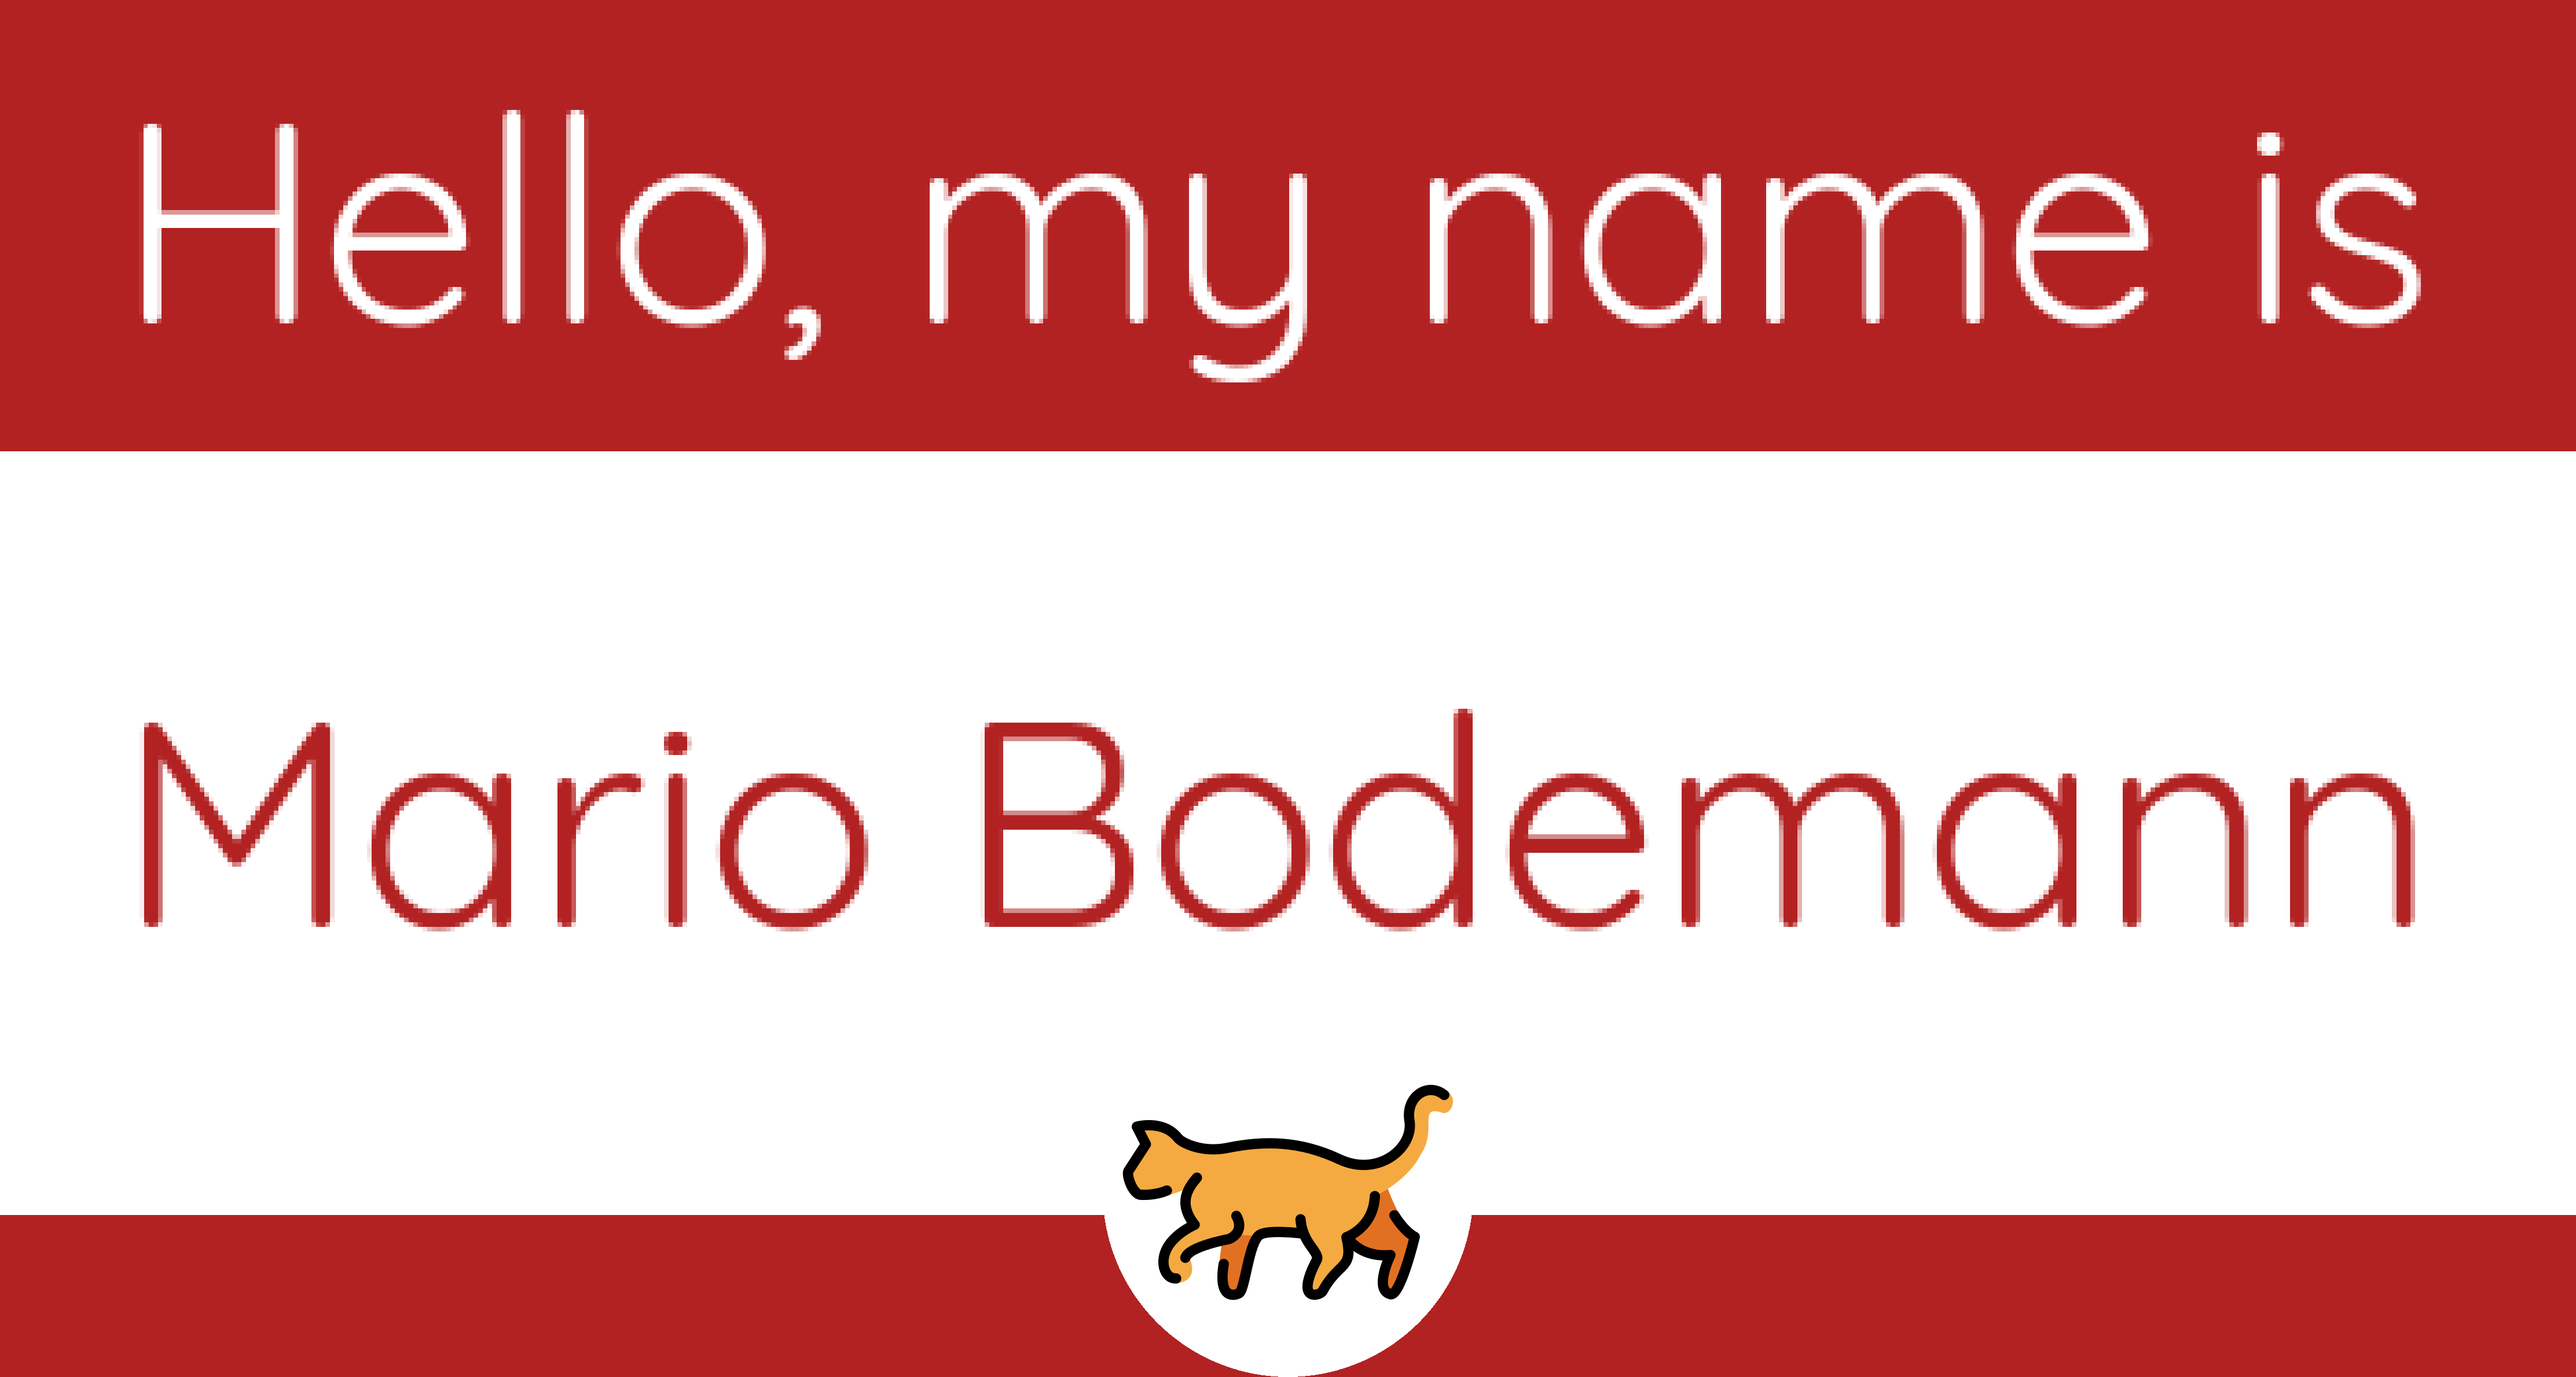
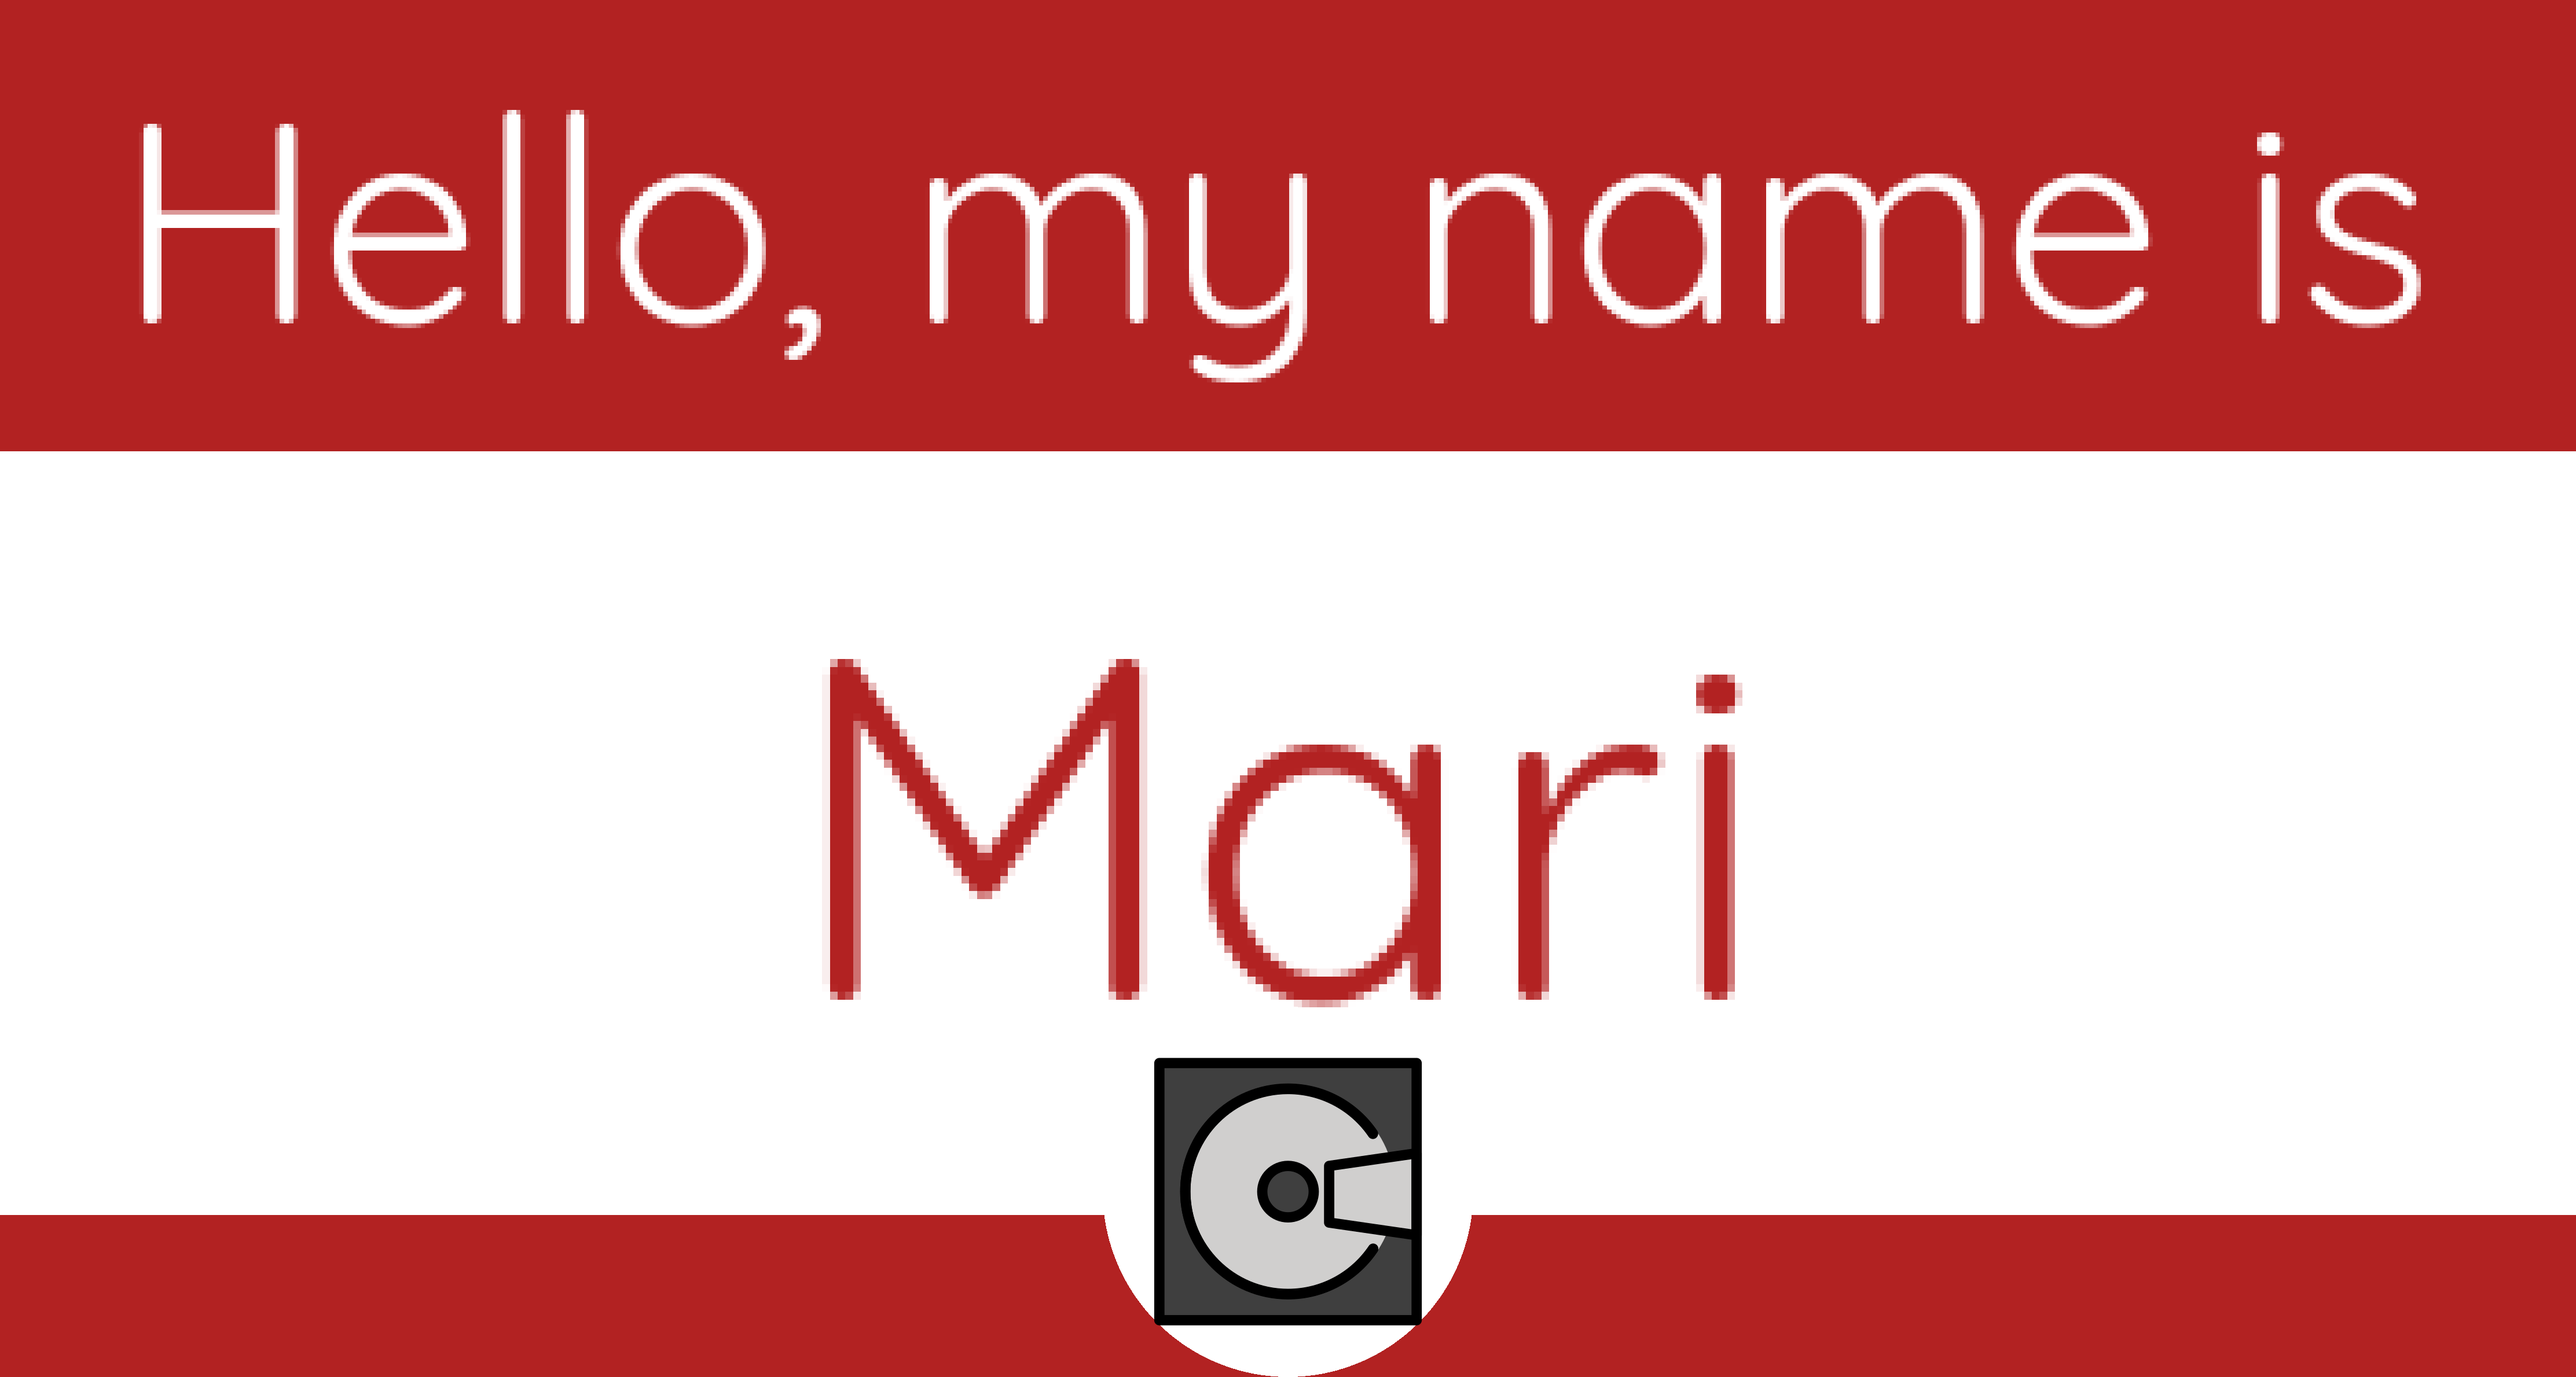
UX: Improve readabillity
Black foreground on rainbow,
more spacing

Changed region(s): [[0.0312, 0.4664, 0.9371, 0.9639]]

diff --git a/menu.py b/menu.py
@@ -86,9 +86,11 @@ def hsv(index, length):
 
 def rainbowify(message, background=False):
     if background:
-        layer_code = 48
+        layer_code = f"38;5;0;1m{color_escape_sequence}48"
     else:
-        layer_code = 38
+        layer_code = "38"
+
+    message = f"  {message}  "
 
     return "".join(
         list(
@@ -248,7 +250,7 @@ class Menu:
             name = input()
 
             while len(name) < 4:
-                prompt("please use more then 4 letters.", rainbow=True)
+                prompt("Please use more then 4 letters.", rainbow=True)
                 prompt("", "you", False)
                 name = input()
 
@@ -257,7 +259,7 @@ class Menu:
                 continue
 
             prompt(f"Thank you, {name}.")
-            prompt(f"What is your favorite number from one to {len(self.emoji_list)}?")
+            prompt(f"What is your favorite number from '0' to '{len(self.emoji_list)}'?")
             prompt("", "you", False)
             number = input()
 

diff --git a/badge.py b/badge.py
@@ -1,6 +1,7 @@
 import pygame
 import pygame_emojis
 import os
+import bluetooth.btcommon
 
 if "A6_PRINTER" in os.environ:
     print("Found a printer address!")
@@ -41,7 +42,6 @@ class BadgeCreator:
 
     def create(self, name, image_or_emoji, font_name=None, hello_text="Hello, my name is"):
         pygame.font.init()
-        print(f"font: {font_name}")
         font = pygame.font.SysFont(font_name, self.font_size)
 
         hello_bar = (0, 0, self.width, self.hello_bar_end)
